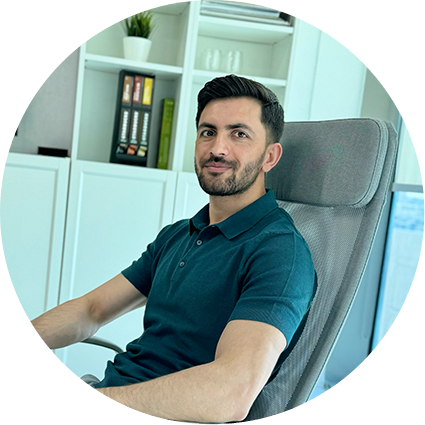
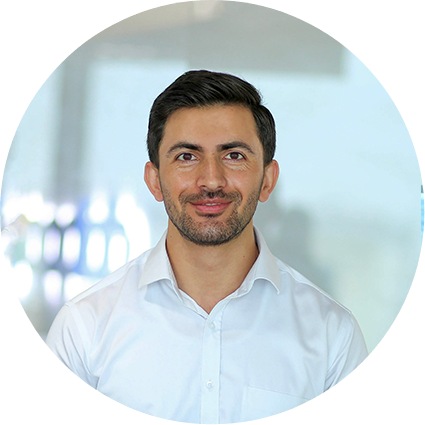
Added mb-230, updated profile picture etc

diff --git a/index.html b/index.html
@@ -132,7 +132,7 @@
 								Anwar Ul Haq
 							</h2>
 							<h4 class="wow fadeInUp" data-wow-duration="0.8s" data-wow-delay="0.3s">
-								Dynamics CRM Consultant
+								Lead Dynamics CRM & Power Platform Consultant
 							</h4>
 
 							<ul>
@@ -455,6 +455,18 @@
 
 								</div>
 
+								<!-- customer service functional consultant-->
+								<div class="mh-education-item dark-bg wow fadeInUp" data-wow-duration="0.8s"
+									data-wow-delay="0.5s">
+									<h4>
+										Dynamics 365 Customer Service Functional Consultant Associate (MB-230) from
+										<a target="_blank"
+											href="https://learn.microsoft.com/en-gb/users/anwarluck/credentials/964797F5B5DD759C">Microsoft</a>
+									</h4>
+									<div class="mh-eduyear">Sept, 2024</div>
+
+								</div>
+
 								<!-- marketing functional consultant-->
 								<div class="mh-education-item dark-bg wow fadeInUp" data-wow-duration="0.8s"
 									data-wow-delay="0.5s">
@@ -616,8 +628,7 @@
 								<div class="mh-work-item dark-bg wow fadeInUp" data-wow-duration="0.8s"
 									data-wow-delay="0.4s">
 									<h4>
-										Lead Dynamics CRM Consultant at <a target="_blank"
-											href="https://applab.qa">Applab
+										Team Lead - Dynamics CRM at <a target="_blank" href="https://applab.qa">Applab
 											Qatar</a>
 									</h4>
 									<div class="mh-eduyear">June 2023 - Present </div>
@@ -638,7 +649,7 @@
 										Dynamics CRM Consultant at <a target="_blank"
 											href="https://skysoftconnections.com">Skysoft Connections</a>
 									</h4>
-									<div class="mh-eduyear">February 2020 - Present </div>
+									<div class="mh-eduyear">February 2020 - April 2023 </div>
 									<span>Responsibility :</span>
 									<ul class="work-responsibility">
 										<li><i class="fa fa-circle"></i>Customizations (ootb(out-of-the-box),